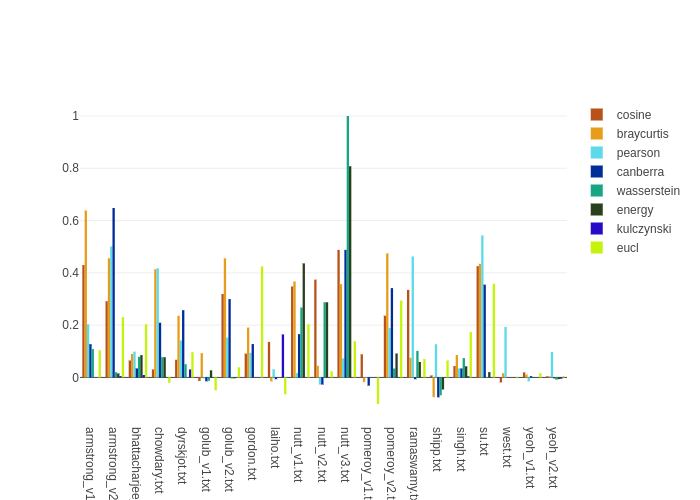
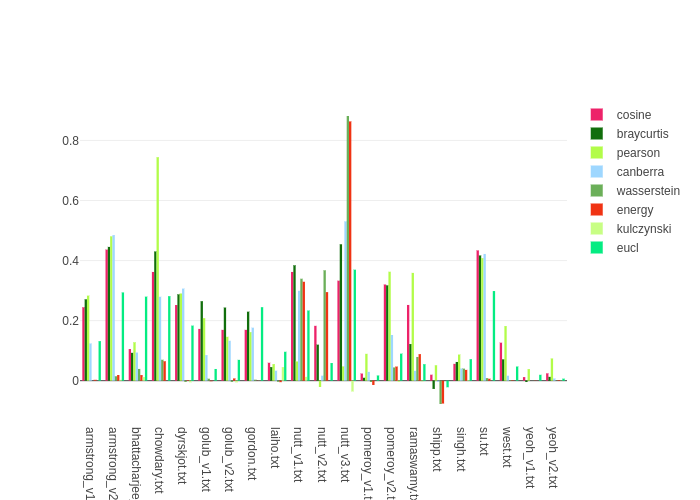
Poslednja radi :))

diff --git a/ari_scores_zpercentage.py b/ari_scores_zpercentage.py
@@ -59,9 +59,10 @@ def ari_scores_zpercentage_normed(data,labels,name,p1,p2):
         eucl_label = k_means(data, np.max(np.unique(labels)), euclidean)
         ari_eucl = ari_eucl + metrics.adjusted_rand_score(lbls,eucl_label)
 #radi normalno
-    tmp = np.array([ari_cosine,ari_braycurtis,ari_correlation,ari_canberra,ari_wasserstein,ari_energy,ari_kulczynski,ari_eucl]) / 25
-
-    return [name, tmp.tolist()]
+    tmp = [ari_cosine,ari_braycurtis,ari_correlation,ari_canberra,ari_wasserstein,ari_energy,ari_kulczynski,ari_eucl]
+    tmp = [x / 25 for x in tmp ]
+    tmp.insert(0,name)
+    return tmp
 
 # -*- coding: utf-8 -*-
 #ari_hellinger
